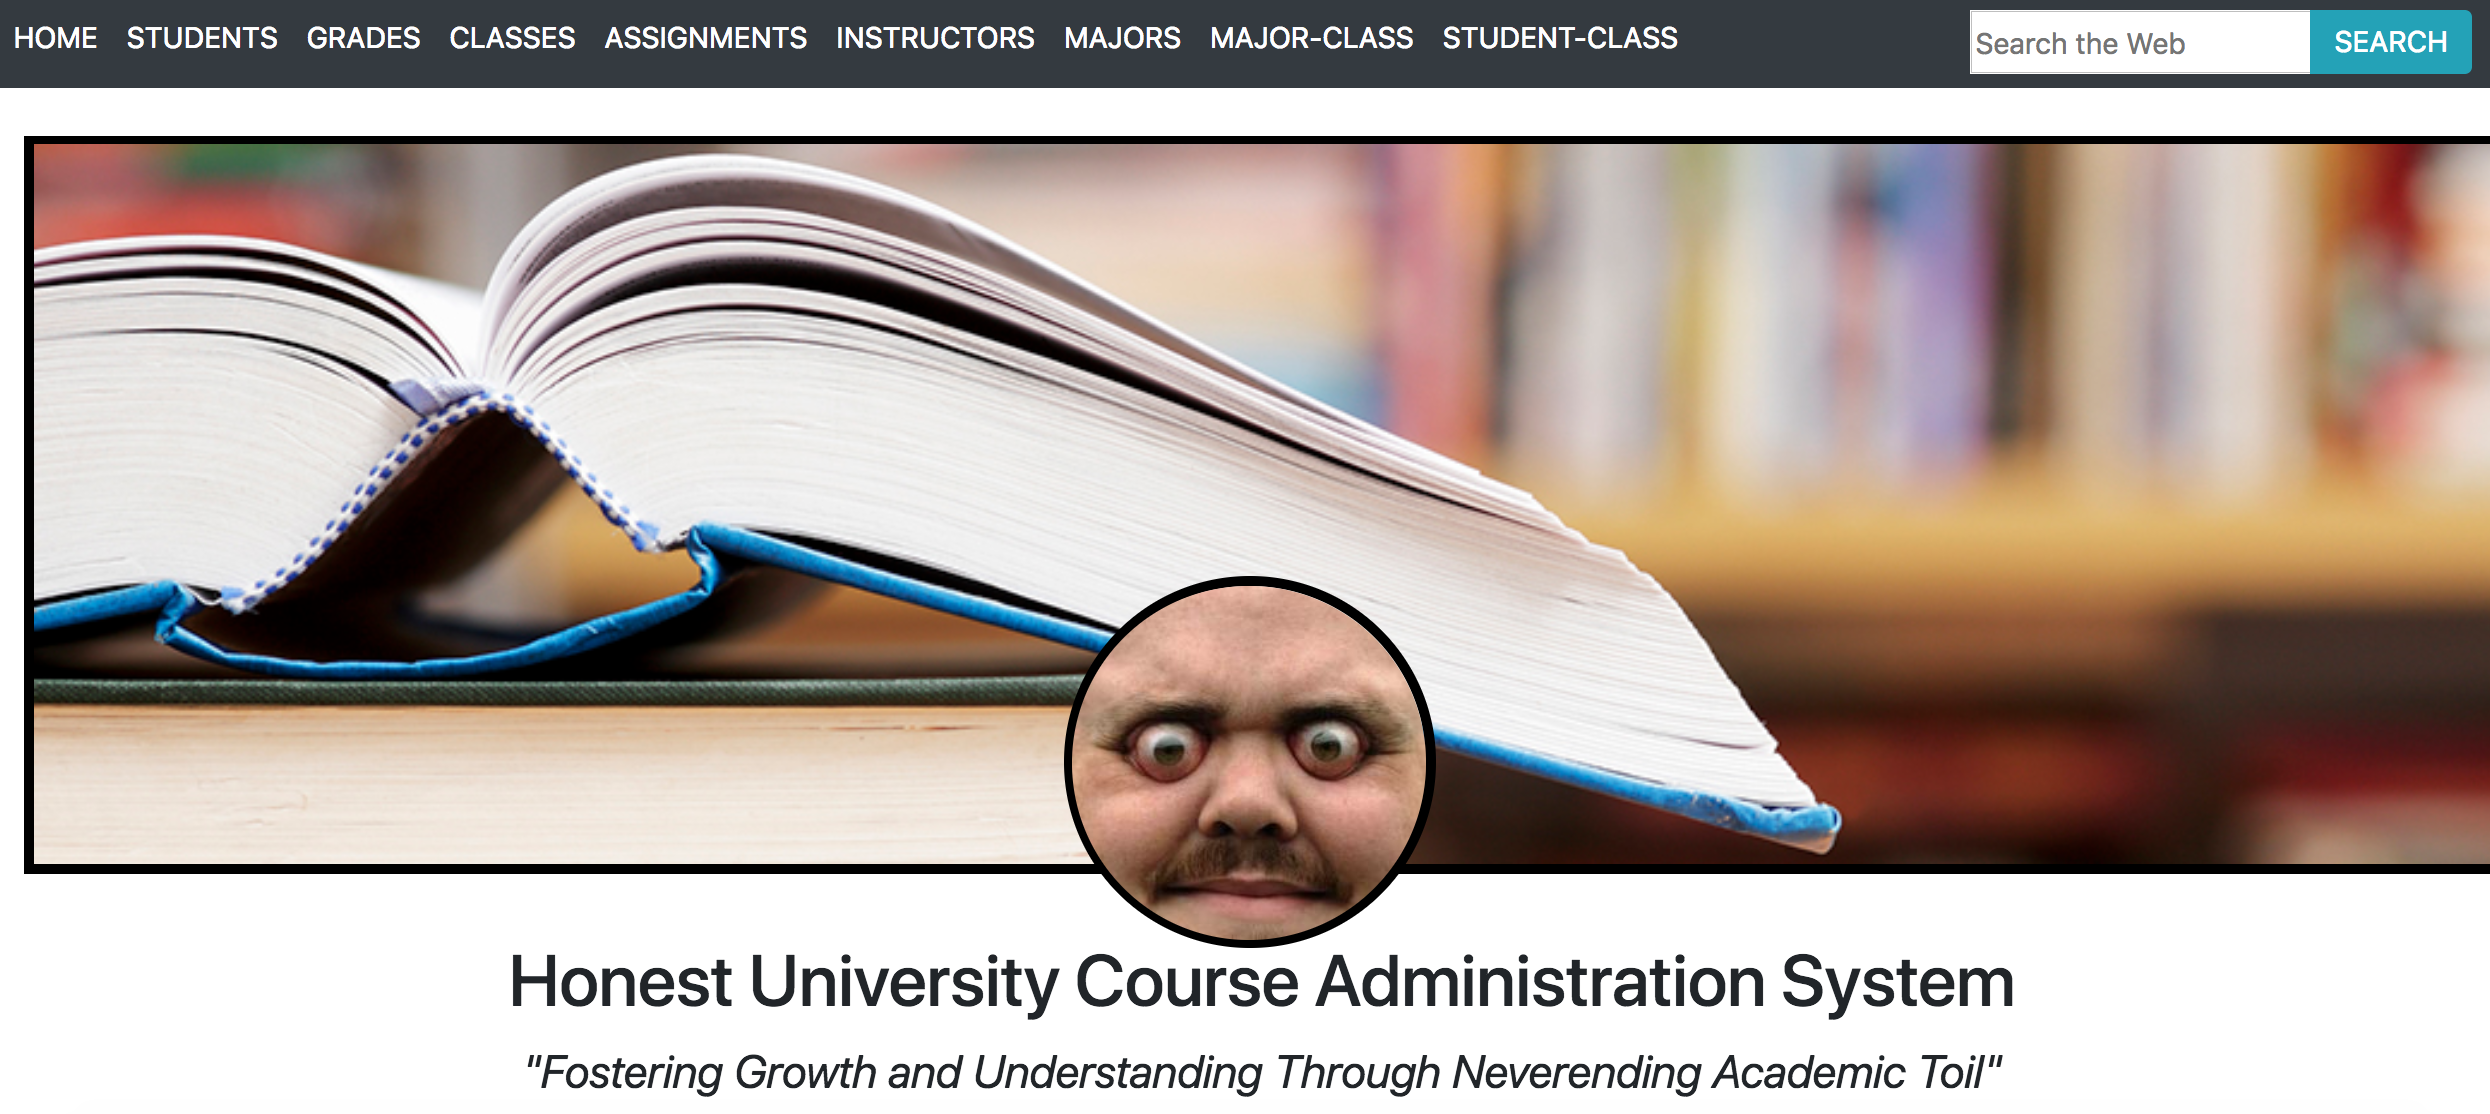
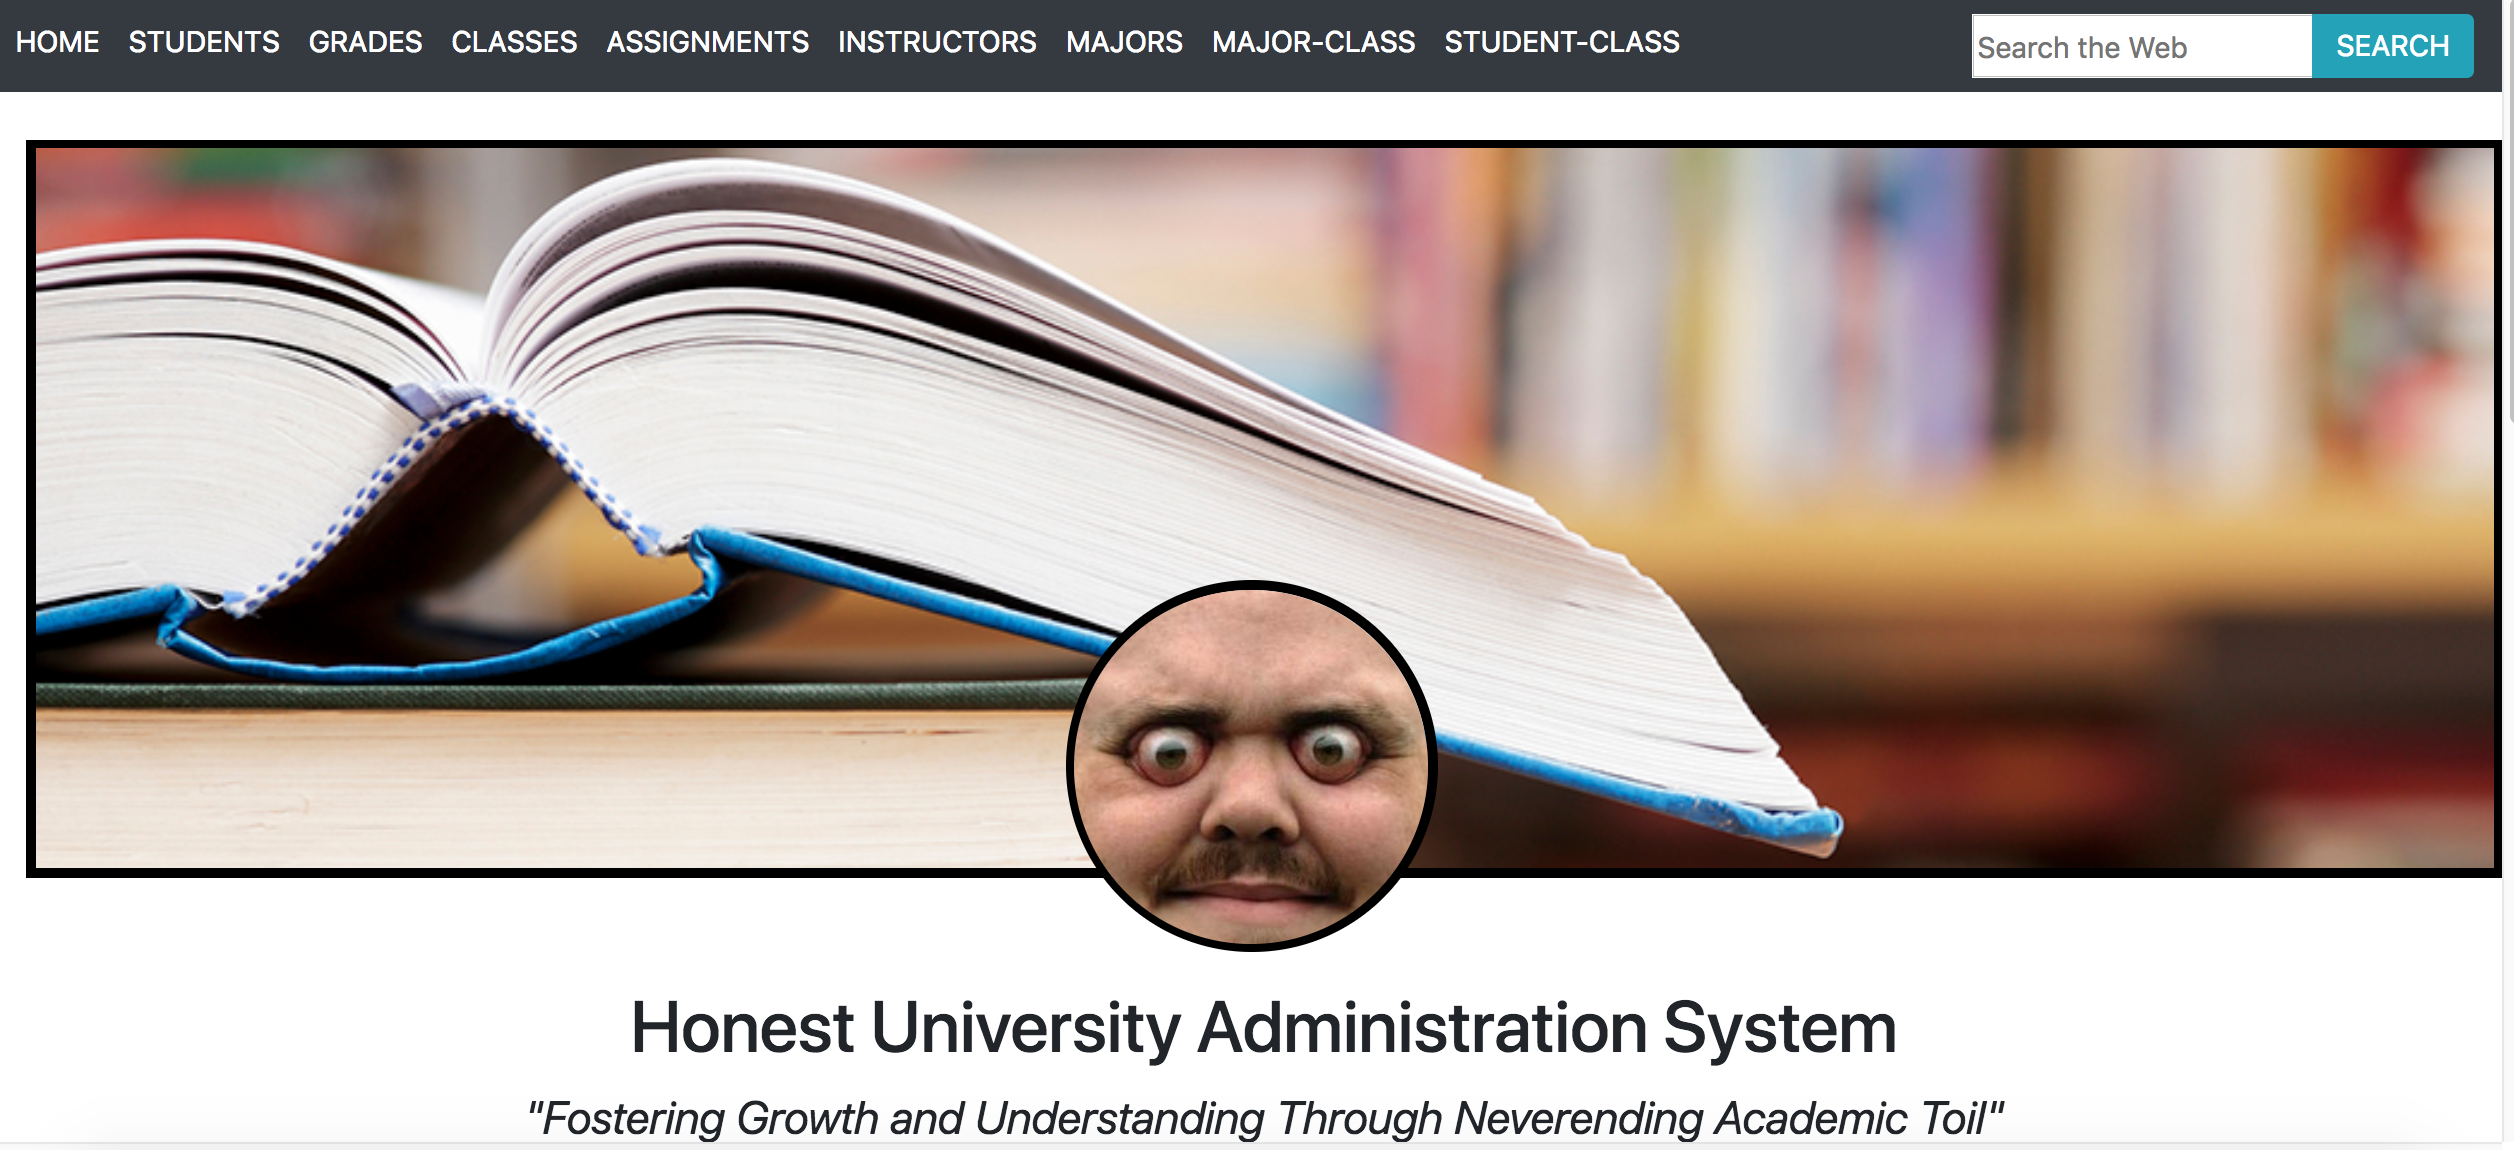
style updates

diff --git a/src/app/home/home.component.html b/src/app/home/home.component.html
@@ -7,12 +7,12 @@
     <!-- Begin JumboTron -->
     <div class="wrapper">
         <img src="assets/images/education.jpg" class="big-img" id="styler">
-        <img class="rounded-circle small-img" src="assets/images/sweaty.jpg">
+        <img class="rounded-circle small-img" src="assets/images/sweaty.jpg" alt="School mascot, sweaty Bob">
     </div>
     <!-- End JumboTron -->
-    
+    <br>
     <div class="text-center">
-         <h1>Honest University Course Administration System</h1>
+         <h1>Honest University Administration System</h1>
          <h2><small><i>&quot;Fostering Growth and Understanding Through Neverending Academic Toil&quot;</i></small></h2>
     </div>
     

diff --git a/src/app/grade/grade.component.html b/src/app/grade/grade.component.html
@@ -18,8 +18,8 @@
 
 <a class="btn btn-primary" routerLink="/grade/add">Add Grade</a><br><br>
 
-<table class="table table-hover table-bordered" id="dataTable">
-  <thead class="thead-dark">
+<table class="table table-hover" id="dataTable">
+  <thead>
     <tr>
       <th>ID</th>
       <th onclick="sortTable(1)"> <i class="fas fa-sort"></i> <u>Grade</u></th>
